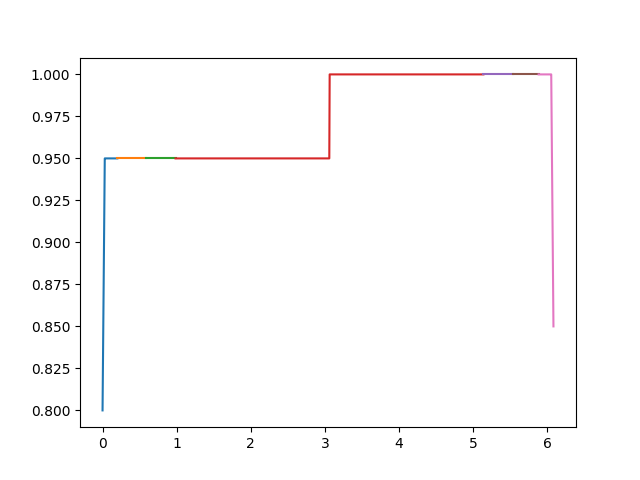
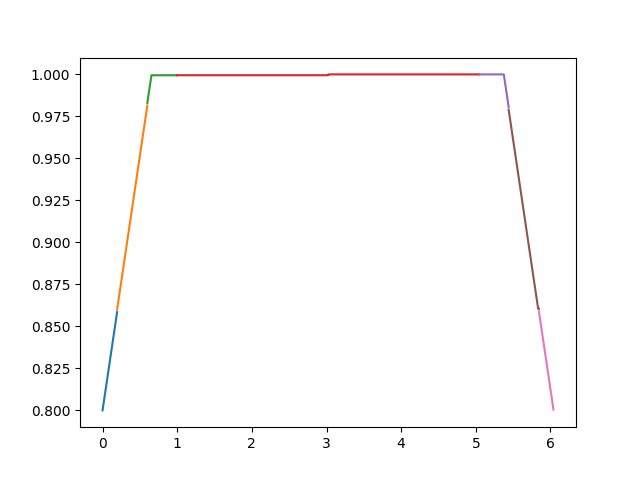
feasibility checks

diff --git a/BackmanAlgorithm/SmoothPlanner.py b/BackmanAlgorithm/SmoothPlanner.py
@@ -69,7 +69,7 @@ class SmoothPathPlanner:
         TODO: implement kDDot constraints
         """
 
-        kTolerance = 0.01
+        kTolerance = self.dT*max(np.abs(self.kDotMax),np.abs(self.kDotMin))
         k = kInit
         kTrajectory = np.array([k])
 
@@ -91,7 +91,7 @@ class SmoothPathPlanner:
         TODO: implement vDDot constraints
         """
 
-        vTolerance = 0.05
+        vTolerance = self.dT*max(np.abs(self.vDotMax), np.abs(self.vDotMin))
         v = vInit
         vTrajectory = np.array([v])
 
@@ -346,7 +346,7 @@ class SmoothPathPlanner:
             ################ generate third connecting spiral ################
             
             if self.cut_v_S4:
-                if not(hasattr(self,'vC4_index')):
+                if not(hasattr(self,'vC3_index')):
                     #initial guess: C3 is long enough that vC3 is used completely
                     self.vC3_index = 0
             else: #know value of v_C4
@@ -419,7 +419,7 @@ class SmoothPathPlanner:
 
                 #check if they intersect
                 if self.S2.pathIntersectsWith(self.S3):
-                    self.k_C2 = self.k_C2 + self.k_C4*0.1 #increases or decreases the center curvature toward k_end
+                    self.k_C2 = self.k_C2 - np.sign(self.k_C2)*0.1*self.kMax #increases or decreases the center curvature toward k_end
                     # TODO: implemetnation for RSL LSR cases?
                     continue
                 
@@ -428,14 +428,49 @@ class SmoothPathPlanner:
 
             ################ generate C1 and C3 ################
             self.C1 = CCSegment(self.k_C1, v_C1, self.S1.poses[-1], self.S2.poses[0], self.omega_k, self.dT)
-
-            self.C3 = CCSegment(self.k_C3, v_C3, self.S3.poses[-1], self.S4.poses[0], self.omega_kplus2, self.dT)
+            self.vC1_index_new = self.C1.v_index
             
+            self.C3 = CCSegment(self.k_C3, v_C3, self.S3.poses[-1], self.S4.poses[0], self.omega_kplus2, self.dT)
+            if not(hasattr(self,'vC3_index_new')):
+                self.vC3_index_new = len(v_C3) - self.C3.v_index
+
+            ################ Check Feasbility ################
             self.path_is_not_feasible = False
 
+            if self.C1.angle > np.pi:
+                self.k_C1 = self.k_C1 - np.sign(self.k_C1)*0.1*self.kMax
+                self.path_is_not_feasible = True
+                continue
+
+            if self.C3.angle > np.pi:
+                self.k_C3 = self.k_C3 - np.sign(self.k_C3)*0.1*self.kMax
+                self.path_is_not_feasible = True
+                continue
+            
+            if (self.vC1_index != self.vC1_index_new):
+                self.vC1_index = self.vC1_index_new
+                self.path_is_not_feasible = True
+
+            if (self.vC3_index != self.vC3_index_new):
+                self.vC3_index = self.vC3_index_new
+                self.path_is_not_feasible = True
+            
+            if (self.C1.arcLen < self.dT*self.vMax) and (np.linalg.norm(self.S2.poses[0][0:2] - self.S1[-1][0:2]) > self.dT*self.vMax):
+                return 0
+
+            if (self.C3.arcLen < self.dT*self.vMax) and (np.linalg.norm(self.S4.poses[0][0:2] - self.S3[-1][0:2]) > self.dT*self.vMax):
+                return 0
+            
+            
+            
+
+
+            
+            
+
+        
         self.plotPath()
         self.plotControls()
-
         return self.path
 
 def main():
@@ -460,7 +495,7 @@ def main():
 
     vMax = 1.0
     vMin = -vMax
-    vDotMax = 5.0
+    vDotMax = 0.3
     vDotMin = -vDotMax
     vDDotMax = 1.0
     vDDotMin = -1.0

diff --git a/BackmanAlgorithm/PathSegment.py b/BackmanAlgorithm/PathSegment.py
@@ -164,7 +164,10 @@ class CCSegment(PathSegment):
         if(curvature < 0 and ang2 > ang1):
             ang2 = ang2 - 2*np.pi
 
+        self.angle = ang2-ang1
+
         arcLen = r*np.abs(ang2-ang1)
+        self.arcLen = arcLen
         maxTimeToTraverse = arcLen/np.amin(vTraj)
         maxStepsToTraverse = int(maxTimeToTraverse/dT) +1
 
@@ -173,7 +176,7 @@ class CCSegment(PathSegment):
 
         ang = ang1
         i = 0 #counter
-        v_index = i
+        v_index = 0
 
         while np.sign(curvature)*(ang - ang2) <= 0:
             w = abs(vTraj[v_index])/r
@@ -185,10 +188,9 @@ class CCSegment(PathSegment):
             i = i + 1
             if v_index < len(vTraj) - 1:
                 v_index = v_index + 1
-
+        self.v_index = v_index - vStartIndex
         self.poses = self.poses[0:i] #trim excess
         self.controls = self.controls[0:i] #trim excess
-
 
 class C2ArcSegment(PathSegment):
 
@@ -219,6 +221,8 @@ class C2ArcSegment(PathSegment):
         
         if(curvature < 0 and ang2 > ang1):
             ang2 = ang2 - 2*np.pi
+
+        self.angle = ang2-ang1
 
         arcLen = r*np.abs(ang2-ang1)
         maxTimeToTraverse = arcLen/np.amin(np.abs(np.append(v1,v2))) #TODO: change this to average
